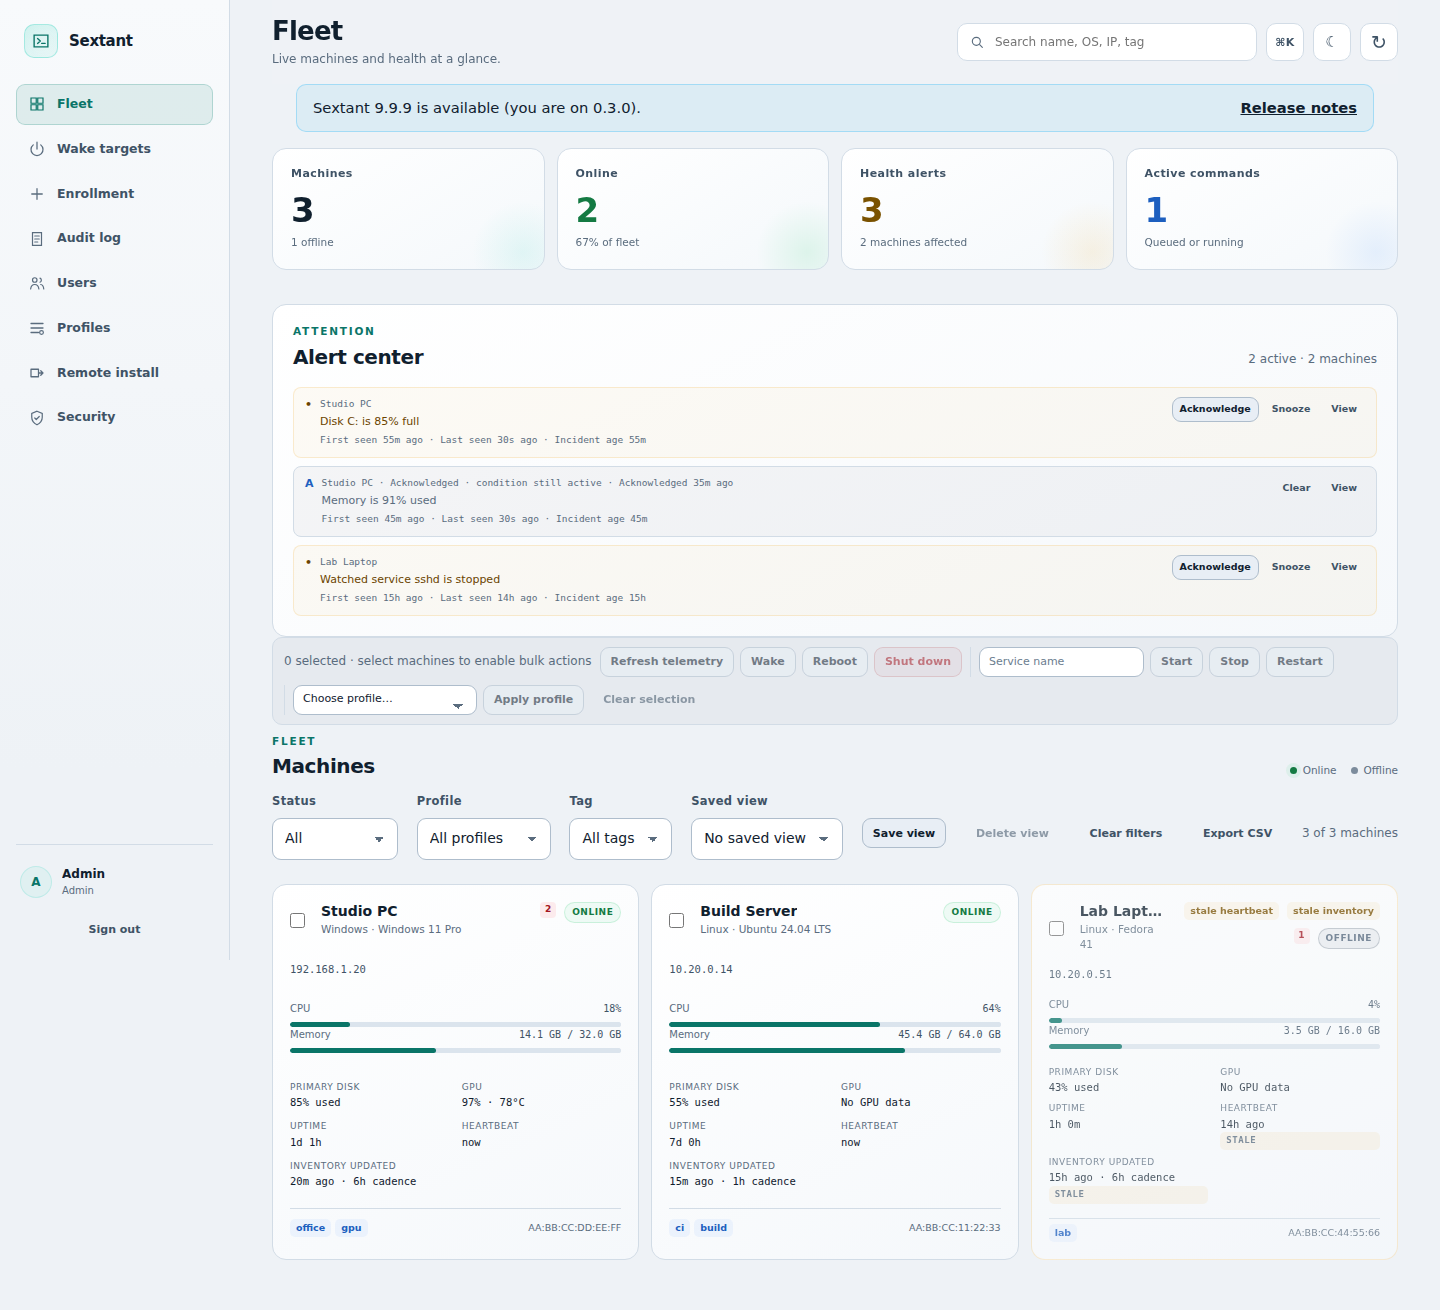
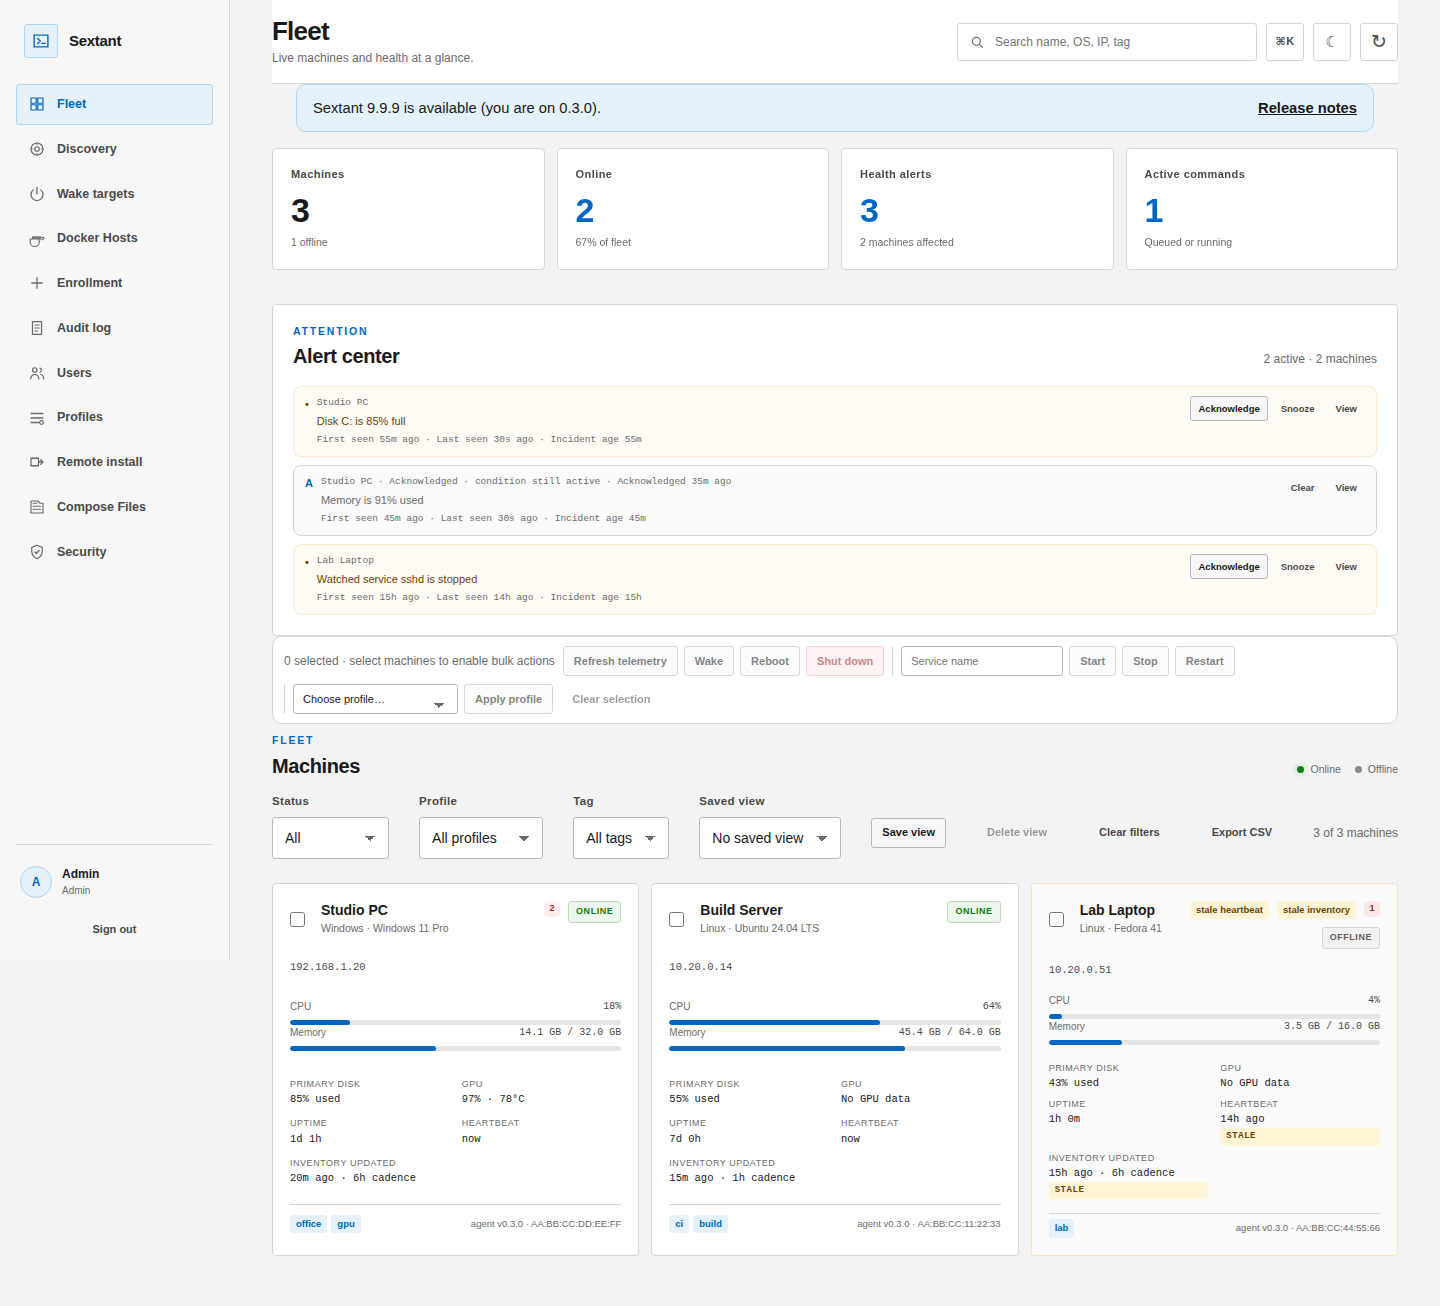
Release 0.5.0 with Discovery D1-D6 and Classic light theme

diff --git a/sextant_control/static/app.css b/sextant_control/static/app.css
@@ -65,63 +65,67 @@
 
 html[data-theme="light"] {
   color-scheme: light;
-  --bg: #eef2f6;
-  --bg-raised: #e5ebf2;
+  --bg: #f3f3f3;
+  --bg-raised: #ffffff;
   --bg-panel: #ffffff;
-  --bg-panel-2: #e8eef5;
+  --bg-panel-2: #f7f7f7;
   --bg-input: #ffffff;
-  --line: #d2dce6;
-  --line-strong: #aebdcc;
-  --text: #10202e;
-  --text-soft: #3f5366;
-  --text-dim: #5a6c7e;
-  --accent: #0a7568;
-  --accent-strong: #08695d;
+  --line: #d6d6d6;
+  --line-strong: #b8b8b8;
+  --text: #1a1a1a;
+  --text-soft: #4a4a4a;
+  --text-dim: #6b6b6b;
+  --accent: #0067c0;
+  --accent-strong: #005a9e;
   --accent-ink: #ffffff;
-  --blue: #1d5fbf;
-  --amber: #7a5200;
-  --red: #b42330;
-  --green: #147a43;
-  --purple: #6a3fb5;
-  --shadow: 0 20px 60px rgba(24, 42, 61, 0.16);
-  --sidebar-bg: linear-gradient(180deg, #f8fafc, #eef2f6 80%);
-  --topbar-bg: rgba(238, 242, 246, 0.9);
-  --card-gradient: linear-gradient(155deg, #ffffff, #f5f8fb);
-  --card-gradient-hover: linear-gradient(155deg, #ffffff, #eef4fa);
-  --panel-gradient: linear-gradient(155deg, #ffffff, #f5f8fb);
-  --stat-gradient: linear-gradient(150deg, #ffffff, #f4f8fb);
-  --login-card-bg: linear-gradient(160deg, #ffffff, #f2f6fa);
-  --row-bg: rgba(20, 32, 44, 0.035);
-  --row-bg-strong: rgba(20, 32, 44, 0.05);
+  --blue: #0067c0;
+  --amber: #8a5a00;
+  --red: #c42b1c;
+  --green: #107c10;
+  --purple: #6b4fa0;
+  --radius: 4px;
+  --radius-sm: 3px;
+  --shadow: 0 1px 6px rgba(0, 0, 0, 0.12);
+  --font: "Segoe UI", Tahoma, Arial, system-ui, sans-serif;
+  --mono: Consolas, "Courier New", monospace;
+  --sidebar-bg: #f7f7f7;
+  --topbar-bg: #ffffff;
+  --card-gradient: #ffffff;
+  --card-gradient-hover: #fafafa;
+  --panel-gradient: #ffffff;
+  --stat-gradient: #ffffff;
+  --login-card-bg: #ffffff;
+  --row-bg: #ffffff;
+  --row-bg-strong: #fafafa;
   --dialog-bg: #ffffff;
-  --drawer-bg: #fbfcfe;
-  --terminal-bg: #0b1117;
-  --terminal-bar-bg: #101a23;
-  --terminal-text: #c3d3e3;
-  --terminal-dim: #9aafc3;
-  --code-bg: #f1f6fa;
-  --code-text: #0a5d52;
-  --input-placeholder: #6b7d8f;
-  --hover: rgba(16, 32, 46, 0.06);
-  --nav-hover: rgba(16, 32, 46, 0.05);
-  --progress-track: #dbe4ed;
-  --offline-dot: #7c8c9c;
-  --backdrop: rgba(16, 32, 46, 0.45);
-  --scrim: rgba(16, 32, 46, 0.35);
-  --focus-ring: rgba(11, 127, 112, 0.16);
-  --accent-soft: rgba(11, 127, 112, 0.1);
-  --accent-border: rgba(11, 127, 112, 0.22);
-  --accent-hover: #0a6a5e;
-  --danger-bg: rgba(180, 35, 48, 0.08);
-  --danger-border: rgba(180, 35, 48, 0.3);
-  --danger-hover-bg: rgba(180, 35, 48, 0.14);
-  --danger-text: #a31622;
+  --drawer-bg: #ffffff;
+  --terminal-bg: #0c0c0c;
+  --terminal-bar-bg: #1f1f1f;
+  --terminal-text: #f2f2f2;
+  --terminal-dim: #b0b0b0;
+  --code-bg: #f6f6f6;
+  --code-text: #1a1a1a;
+  --input-placeholder: #767676;
+  --hover: #f0f0f0;
+  --nav-hover: #eaeaea;
+  --progress-track: #e5e5e5;
+  --offline-dot: #8a8a8a;
+  --backdrop: rgba(0, 0, 0, 0.25);
+  --scrim: rgba(0, 0, 0, 0.2);
+  --focus-ring: rgba(0, 103, 192, 0.18);
+  --accent-soft: #e5f1fb;
+  --accent-border: #b3d6f2;
+  --accent-hover: #005a9e;
+  --danger-bg: #fde7e9;
+  --danger-border: #f1aeb5;
+  --danger-hover-bg: #fbd8dc;
+  --danger-text: #a4262c;
   --warn-text: #6b4400;
-  --alert-danger-text: #a31622;
-  --tag-text: #1d5fbf;
-  --offline-pill-text: #52657a;
-  --info-tile-bg: rgba(20, 32, 44, 0.045);
-  --muted-row-bg: rgba(20, 32, 44, 0.04);
+  --alert-danger-text: #a4262c;
+  --tag-text: #005a9e;
+  --offline-pill-text: #5f5f5f;
+  --info-tile-bg: #f7f7f7;
+  --muted-row-bg: #fafafa;
 }
 
 * { box-sizing: border-box; }
@@ -546,7 +550,7 @@ svg { display: block; }
   transition: border-color 0.15s ease, transform 0.15s ease, background 0.15s ease;
 }
 .agent-card:hover { border-color: var(--line-strong); background: var(--card-gradient-hover); transform: translateY(-1px); }
-.agent-card.is-offline { opacity: 0.74; }
+.agent-card.is-offline { border-color: var(--line-strong); background: var(--muted-row-bg); }
 .agent-card-head { display: flex; align-items: flex-start; justify-content: space-between; gap: 10px; min-width: 0; }
 .agent-name { display: flex; align-items: center; gap: 8px; min-width: 0; }
 .agent-name > div { min-width: 0; flex: 1; }
@@ -1032,3 +1036,86 @@ svg { display: block; }
   .timeline-entry { grid-template-columns: 1fr auto auto; }
   .timeline-time { grid-column: 1 / -1; }
 }
+
+/* Theme refinement: one accent, fewer per-item colors */
+.stat-card::after { display: none; }
+.stat-good .stat-value,
+.stat-warn .stat-value,
+.stat-info .stat-value { color: var(--accent); }
+.tag { background: var(--accent-soft); color: var(--accent); }
+.tag-warn { background: rgba(242, 184, 75, 0.12); color: var(--warn-text); }
+html[data-theme="light"] .tag-warn { background: #fff4d6; }
+.update-banner {
+  border-color: var(--accent-border);
+  background: var(--accent-soft);
+}
+.callout {
+  border-color: var(--accent-border);
+  background: var(--accent-soft);
+}
+html[data-theme="light"] .auth-shell { background: var(--bg); }
+html[data-theme="light"] .login-art { background: #ffffff; }
+html[data-theme="light"] .login-art::before { display: none; }
+html[data-theme="light"] .brand-mark {
+  border-color: var(--accent-border);
+  background: var(--accent-soft);
+  box-shadow: none;
+  color: var(--accent);
+}
+html[data-theme="light"] .avatar {
+  border-color: var(--accent-border);
+  background: var(--accent-soft);
+  color: var(--accent);
+}
+html[data-theme="light"] .topbar { border-bottom: 1px solid var(--line); }
+html[data-theme="light"] .login-card { box-shadow: var(--shadow); }
+html[data-theme="light"] .login-copy h1 { font-weight: 650; letter-spacing: -0.025em; }
+html[data-theme="light"] .agent-card:hover { transform: none; }
+html[data-theme="light"] .status-pill.online {
+  border-color: #b7dfb7;
+  background: #edf7ed;
+  color: var(--green);
+}
+html[data-theme="light"] .status-pill.offline {
+  border-color: #d6d6d6;
+  background: #f2f2f2;
+  color: var(--offline-pill-text);
+}
+html[data-theme="light"] .status-pill.warning {
+  border-color: #e5c48a;
+  background: #fff8e8;
+  color: var(--amber);
+}
+html[data-theme="light"] .status-pill.critical {
+  border-color: #f1aeb5;
+  background: #fde7e9;
+  color: var(--red);
+}
+html[data-theme="light"] .button-primary { background: var(--accent); color: var(--accent-ink); }
+html[data-theme="light"] .button-primary:hover { background: var(--accent-hover); }
+html[data-theme="light"] .nav-item.is-active {
+  border-color: var(--accent-border);
+  background: var(--accent-soft);
+  color: var(--accent);
+}
+html[data-theme="light"] .console-output {
+  background: #0c0c0c;
+  color: #f2f2f2;
+  border-color: #3a3a3a;
+}
+html[data-theme="light"] .login-card,
+html[data-theme="light"] .dialog,
+html[data-theme="light"] .command-palette,
+html[data-theme="light"] .drawer-panel { border-radius: var(--radius); }
+html[data-theme="light"] .brand-mark,
+html[data-theme="light"] .icon-button,
+html[data-theme="light"] .nav-item,
+html[data-theme="light"] .search-box,
+html[data-theme="light"] .tag,
+html[data-theme="light"] .status-pill { border-radius: var(--radius-sm); }
+html[data-theme="light"] .status-pill { border-radius: 3px; }
+html[data-theme="light"] .tag { border-radius: 3px; }
+html[data-theme="light"] .login-copy h1 { font-size: clamp(36px, 4.6vw, 64px); }
+html[data-theme="light"] .stat-card { min-height: 108px; }
+.fact .tag { color: var(--accent); }
+.fact .tag-warn { color: var(--warn-text); }

diff --git a/sextant_control/static/index.html b/sextant_control/static/index.html
@@ -147,7 +147,7 @@
             <input id="search-input" type="search" aria-label="Search machines by name, OS, IP, or tag" placeholder="Search name, OS, IP, tag" autocomplete="off">
           </label>
           <button class="icon-button palette-trigger" id="command-palette-button" type="button" title="Command palette (Ctrl/Cmd+K)" aria-label="⌘K command palette" aria-haspopup="dialog" aria-keyshortcuts="Control+K Meta+K"><span aria-hidden="true">⌘K</span></button>
-          <button class="icon-button theme-toggle" id="theme-toggle" type="button" title="Switch to light theme" aria-label="Switch to light theme" aria-pressed="false"><span id="theme-toggle-icon" aria-hidden="true">☀</span></button>
+          <button class="icon-button theme-toggle" id="theme-toggle" type="button" title="Switch to classic light theme" aria-label="Switch to classic light theme" aria-pressed="false"><span id="theme-toggle-icon" aria-hidden="true">☀</span></button>
           <button class="icon-button" id="refresh-button" type="button" title="Refresh now" aria-label="Refresh now">↻</button>
         </div>
       </header>

diff --git a/sextant_control/static/app.js b/sextant_control/static/app.js
@@ -364,13 +364,13 @@ function applyTheme(theme, persist = true) {
   const schemeMeta = document.querySelector('meta[name="color-scheme"]');
   if (schemeMeta) schemeMeta.setAttribute("content", value);
   const themeColor = document.querySelector('meta[name="theme-color"]');
-  if (themeColor) themeColor.setAttribute("content", value === "light" ? "#eef2f6" : "#0b1118");
+  if (themeColor) themeColor.setAttribute("content", value === "light" ? "#f3f3f3" : "#0b1118");
   const toggle = $("theme-toggle");
   if (toggle) {
     const light = value === "light";
     toggle.setAttribute("aria-pressed", light ? "true" : "false");
-    toggle.setAttribute("aria-label", light ? "Switch to dark theme" : "Switch to light theme");
-    toggle.title = light ? "Switch to dark theme" : "Switch to light theme";
+    toggle.setAttribute("aria-label", light ? "Switch to dark theme" : "Switch to classic light theme");
+    toggle.title = light ? "Switch to dark theme" : "Switch to classic light theme";
   }
   const icon = $("theme-toggle-icon");
   if (icon) icon.textContent = value === "light" ? "☾" : "☀";

diff --git a/sextant_control/__init__.py b/sextant_control/__init__.py
@@ -1,3 +1,3 @@
 """Sextant: authenticated self-hosted remote operations console."""
 
-__version__ = "0.4.1"
+__version__ = "0.5.0"

diff --git a/sextant_agent/__init__.py b/sextant_agent/__init__.py
@@ -1,3 +1,3 @@
 """Cross-platform agent for Sextant."""
 
-__version__ = "0.4.1"
+__version__ = "0.5.0"

diff --git a/docs/TESTING.md b/docs/TESTING.md
@@ -127,7 +127,7 @@ cd ui-tests
 npm run test:visual
 ```
 
-The suite covers the login page, fleet dashboard with agents and alerts, the drawer Overview/Trends/Services/Packages/History/Remote tabs, Compose Files list/editor/revisions/deploy controls, Discovery summary/filters/exposure/conflicts/drawer/verify/promotion commands and token clearing, import preview/history, integration settings/secret redaction/fixture-only states, server-and-agent scan source/start/cancel plus relay-disabled, disabled, and unacknowledged states at desktop dark/light and a mobile viewport, Docker console open/output/close, Docker Hosts fast-poll revision updates, drift badges and the safe clone dialog with focus and Compose drift validation, Ctrl/Cmd+K command palette open/filter/activate/Escape, keyboard-only drawer opening with focus trap and focus return, Docker Hosts inspect/cleanup and Compose Files deploy-dialog flows with axe scans, and axe-core scans of login, dashboard, drawer, trends, and Discovery in both themes. The axe gate fails on any `serious` or `critical` violation. No rule is excluded for convenience; if a rule is a documented false positive, name the rule and the reason next to the scan.
+The suite covers the login page, fleet dashboard with agents and alerts, the drawer Overview/Trends/Services/Packages/History/Remote tabs, Compose Files list/editor/revisions/deploy controls, Discovery summary/filters/exposure/conflicts/drawer/verify/promotion commands and token clearing, import preview/history, integration settings/secret redaction/fixture-only states, server-and-agent scan source/start/cancel plus relay-disabled, disabled, and unacknowledged states at desktop dark/Classic light and a mobile viewport, Docker console open/output/close, Docker Hosts fast-poll revision updates, drift badges and the safe clone dialog with focus and Compose drift validation, Ctrl/Cmd+K command palette open/filter/activate/Escape, keyboard-only drawer opening with focus trap and focus return, Docker Hosts inspect/cleanup and Compose Files deploy-dialog flows with axe scans, and axe-core scans of login, dashboard, drawer, trends, and Discovery in both themes. The axe gate fails on any `serious` or `critical` violation. No rule is excluded for convenience; if a rule is a documented false positive, name the rule and the reason next to the scan.
 
 Screenshots are written to `ui-tests/artifacts/` for manual review. Both `ui-tests/artifacts/` and `ui-tests/test-results/` are gitignored, as are `node_modules` and downloaded browser binaries. The screenshots are review artifacts, not pixel baselines: the suite does not fail on screenshot differences.
 

diff --git a/docs/ROADMAP.md b/docs/ROADMAP.md
@@ -32,7 +32,7 @@ Related plans: [Discovery](DISCOVERY.md) (D1–D6 implemented; live vendor conne
 - [x] Server-managed agent profiles (`workstation`/`server`/custom) with installer selection, heartbeat sync, module flags, cadence, dashboard editor, admin reassignment, tag assignment, true package inventory delta, and weekly full reconciliation.
 - [x] Linux remote install over key-based SSH with prerequisite checks, one-time enrollment, job log, and one-at-a-time jobs.
 - [x] Discovery D1–D6: default-off, audited acknowledgement, CIDR allowlist/exclude validation, neighbour/PTR/OUI/SSDP, opt-in TCP/banner/TLS fingerprinting, classification, MAC/IP/hostname merge, deduplicated change events, a cancellable background scan worker, read/write API, the Discovery page, opt-in agent-relayed VLAN scans, exposure/conflict/segment analysis, bounded CSV/JSON export, wake verification, wake-target/install/existing-agent promotion, Nmap/arp-scan/DHCP-lease/JSON imports, stdlib SNMP v2c polling, and read-only UniFi/RouterOS/OPNsense/Proxmox/ESXi adapters. Live vendor connectors remain marked unverified; ESXi is fixture-only. The credential-based Windows remote installer remains a separate future plan.
-- [x] Package desired-state rule editor, inventory filter, heartbeat/inventory freshness labels, interactive tables, fleet filters and per-user server-side saved views, alert center with acknowledge/snooze and recurrence-aware incidents, cadence-aware stale badges, gap-aware 24h/7d detail charts with a persistent event timeline and What changed summary, batch fleet actions, light/dark theme, command palette, Playwright/axe browser tests, change-driven SSE, and incremental command stdout streaming ([UI plan](UI.md)).
+- [x] Package desired-state rule editor, inventory filter, heartbeat/inventory freshness labels, interactive tables, fleet filters and per-user server-side saved views, alert center with acknowledge/snooze and recurrence-aware incidents, cadence-aware stale badges, gap-aware 24h/7d detail charts with a persistent event timeline and What changed summary, batch fleet actions, Classic light/dark theme, command palette, Playwright/axe browser tests, change-driven SSE, and incremental command stdout streaming ([UI plan](UI.md)).
 - [ ] Remaining UI refinements: profile badges and a high-contrast/zoom accessibility pass.
 
 ### Explicitly deferred

diff --git a/docs/CODE_REVIEW.md b/docs/CODE_REVIEW.md
@@ -81,7 +81,7 @@
 - Dashboard is XSS-resistant by construction (`textContent`, no `innerHTML`) and has a strict CSP.
 - Server unit is genuinely hardened; agent execution is bounded at the server (length/timeout/policy/queue caps).
 - The agent is stdlib-only.
-- 295 tests (294 passed on Linux, one Windows-only junction test skipped), clean `pyflakes`/`compileall`/`node --check`, clean `npm audit`; 18 Chromium Playwright/axe tests pass.
+- 402 tests (401 passed on Linux, one Windows-only junction test skipped), clean `pyflakes`/`compileall`/`node --check`, clean `npm audit`; 22 Chromium Playwright/axe tests pass.
 
 ---
 
@@ -111,9 +111,9 @@ Deferred / accepted:
 
 ## 6. Verification
 
-- `pytest`: **294 passed, 1 skipped** on Linux (295 total; the skipped test is the Windows junction integration test, run by the Windows CI job). The suite now includes notifications and Docker D1–D5 coverage; see `docs/TESTING.md` for the per-file map.
+- `pytest`: **401 passed, 1 skipped** on Linux (402 total; the skipped test is the Windows junction integration test, run by the Windows CI job). The suite includes notifications, Docker D1–D5, and Discovery D1–D6 coverage; see `docs/TESTING.md` for the per-file map.
 - `pip check`: no broken requirements.
 - `pip-audit`: no known vulnerabilities.
 - `npm audit`: 0 vulnerabilities.
-- `pip install --require-hashes -r requirements-dev.lock` + `pip install --no-deps -e .` in a fresh venv: **294 passed, 1 skipped**.
+- `pip install --require-hashes -r requirements-dev.lock` + `pip install --no-deps -e .` in a fresh venv: **401 passed, 1 skipped**.
 - `pyflakes`, `compileall`, `node --check`, and the jsdom smoke test pass.

diff --git a/docs/UI.md b/docs/UI.md
@@ -126,9 +126,9 @@ Priority: full pagination for Services and Users next.
 ### 5. Accessibility
 
 - Drawer focus trap, focus return, and sortable-header `aria-sort` are implemented.
-- `aria-live` status regions, a light/dark theme toggle, and a Ctrl/Cmd+K command palette are implemented.
+- `aria-live` status regions, a Classic light/dark theme toggle, and a Ctrl/Cmd+K command palette are implemented.
 - A Playwright + axe-core suite runs against real Chromium at desktop and a 390px mobile viewport in both themes. It covers login, the fleet dashboard, the drawer Overview/Trends tabs, command palette keyboard flow, and keyboard-only drawer opening with focus trap and focus return. Login, dashboard, drawer, and trends scans have no `serious` or `critical` axe violations in either theme.
-- Contrast fixes from the browser pass: the dark theme's dim text and terminal chrome were lightened, the light theme's accent was darkened so eyebrow and accent text clear 4.5:1, dialogs have accessible names, progress bars have labels, and the agent card no longer nests a checkbox inside a fake button role (its title is now a real button).
+- Contrast fixes from the browser pass: the dark theme's dim text and terminal chrome were lightened, the Classic light accent is Windows blue with flat white panels, dialogs have accessible names, progress bars have labels, and the agent card no longer nests a checkbox inside a fake button role (its title is now a real button).
 - Remaining: a full high-contrast theme, Firefox/WebKit runs, zoom/reflow checks, and committed pixel baselines. Screenshots are currently review artifacts, not failing visual diffs.
 
 ### 6. Live behavior

diff --git a/CHANGELOG.md b/CHANGELOG.md
@@ -4,7 +4,7 @@ All notable changes to Sextant are documented here. The format follows
 [Keep a Changelog](https://keepachangelog.com/en/1.1.0/), and the project uses
 semantic versioning.
 
-## [Unreleased]
+## [0.5.0] - 2026-11-12
 
 ### Added
 
@@ -29,6 +29,10 @@ semantic versioning.
   audited, and use write-only in-memory secrets that are never persisted or
   logged. Live vendor connectors are marked unverified; ESXi is fixture-only.
   Credential-based Windows remote install remains future work.
+
+### Changed
+
+- Replaced the former light skin with a flat **Classic** theme: white panels, Windows blue accent, Segoe UI, square controls, and no gradient glows. The dark theme is still the default and now uses one teal accent for tags and statistics, with semantic colors reserved for status/alerts.
 
 ## [0.4.1] - 2026-11-11
 
@@ -115,6 +119,7 @@ semantic versioning.
 Pre-rename baseline: agents, profiles, package inventory and store, remote
 install, telemetry history, alerts, fleet UI, and the initial test suite.
 
+[0.5.0]: https://github.com/JugglerMaster/Sextant/releases/tag/v0.5.0
 [0.4.1]: https://github.com/JugglerMaster/Sextant/releases/tag/v0.4.1
 [0.4.0]: https://github.com/JugglerMaster/Sextant/releases/tag/v0.4.0
 [0.3.1]: https://github.com/JugglerMaster/Sextant/releases/tag/v0.3.1

diff --git a/README.md b/README.md
@@ -10,9 +10,9 @@ It is intentionally a single-tenant, self-hosted tool. There is no cloud relay. 
 
 ## Screenshots
 
-| Fleet dashboard (dark) | Fleet dashboard (light) |
+| Fleet dashboard (dark) | Fleet dashboard (Classic light) |
 | --- | --- |
-| ![Sextant fleet dashboard in the dark theme](docs/images/dashboard-dark.png) | ![Sextant fleet dashboard in the light theme](docs/images/dashboard-light.png) |
+| ![Sextant fleet dashboard in the dark theme](docs/images/dashboard-dark.png) | ![Sextant fleet dashboard in the classic light theme](docs/images/dashboard-light.png) |
 
 ![Sextant trends, persistent event timeline, and What changed summary](docs/images/trends-dark.png)
 
